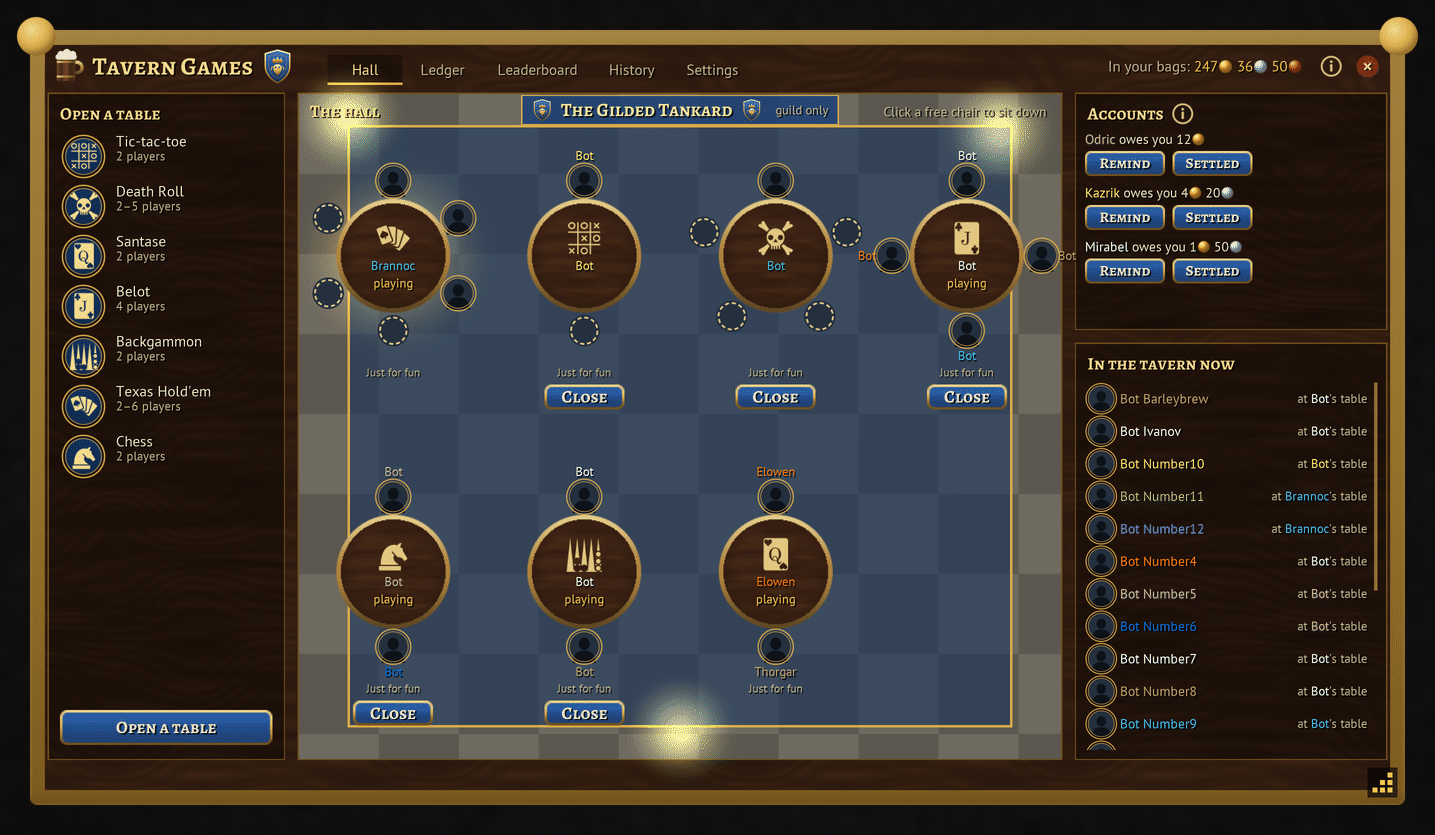
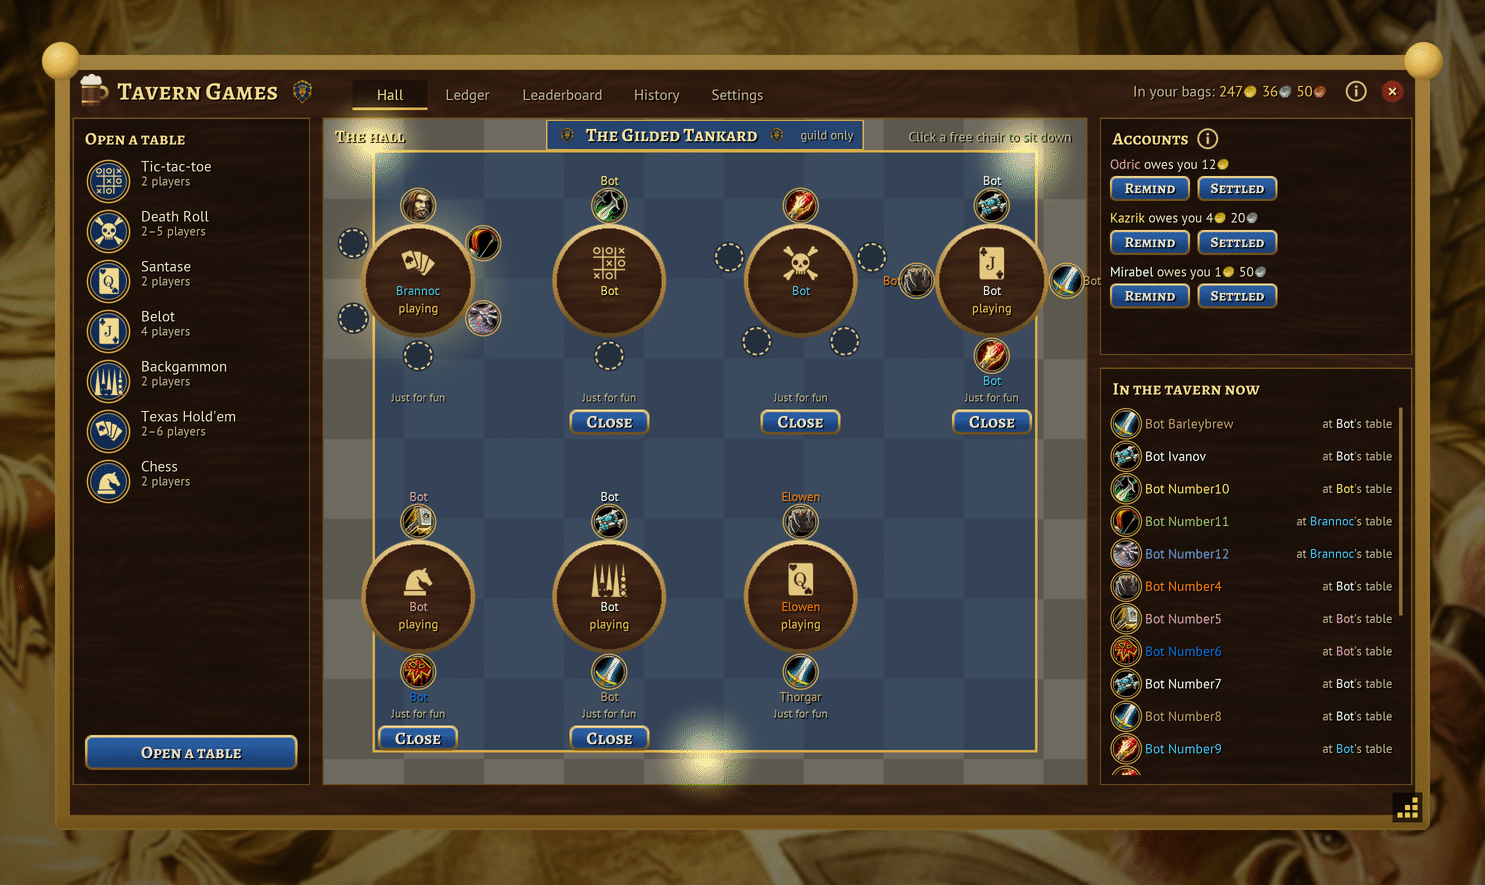
docs(shots): the client's own art in the screenshots
client_art.py reads the files the addon asks for (wow/Art.lua's candidates:
crests, race leaders, race and class icons, coins) and a loading screen per
faction out of the local WoW install's CASC storage (casc.py), into the
git-ignored tools/shots/build/client. The scenes run with a client that has
those files, so the addon picks the same art as in the game; the world behind
the window is the faction's loading screen. Without it, the stand-ins show.

diff --git a/tools/shots/casc.py b/tools/shots/casc.py
@@ -1,0 +1,171 @@
+"""A small read-only reader of a local WoW install's CASC storage, for client_art.py.
+
+It follows .build.info to the build config, then the encoding and root manifests,
+the local .idx indexes and the data.NNN archives, and unpacks BLTE (plain and zlib
+chunks; encrypted ones are refused). A file is found by its path through the
+Jenkins name hash the root manifest keeps, or by its FileDataID.
+"""
+import os, struct, zlib, glob
+
+def hashlittle2(data, pc=0, pb=0):
+    mask = 0xFFFFFFFF
+    length = len(data)
+    a = b = c = (0xdeadbeef + length + pc) & mask
+    c = (c + pb) & mask
+    def rot(x, k): return ((x << k) | (x >> (32 - k))) & mask
+    i = 0
+    while length > 12:
+        a = (a + struct.unpack_from('<I', data, i)[0]) & mask
+        b = (b + struct.unpack_from('<I', data, i + 4)[0]) & mask
+        c = (c + struct.unpack_from('<I', data, i + 8)[0]) & mask
+        a = (a - c) & mask; a ^= rot(c, 4);  c = (c + b) & mask
+        b = (b - a) & mask; b ^= rot(a, 6);  a = (a + c) & mask
+        c = (c - b) & mask; c ^= rot(b, 8);  b = (b + a) & mask
+        a = (a - c) & mask; a ^= rot(c, 16); c = (c + b) & mask
+        b = (b - a) & mask; b ^= rot(a, 19); a = (a + c) & mask
+        c = (c - b) & mask; c ^= rot(b, 4);  b = (b + a) & mask
+        length -= 12; i += 12
+    if length == 0:
+        return c, b
+    tail = data[i:] + b'\0' * (12 - length)
+    a = (a + struct.unpack_from('<I', tail, 0)[0]) & mask
+    b = (b + struct.unpack_from('<I', tail, 4)[0]) & mask
+    c = (c + struct.unpack_from('<I', tail, 8)[0]) & mask
+    c ^= b; c = (c - rot(b, 14)) & mask
+    a ^= c; a = (a - rot(c, 11)) & mask
+    b ^= a; b = (b - rot(a, 25)) & mask
+    c ^= b; c = (c - rot(b, 16)) & mask
+    a ^= c; a = (a - rot(c, 4)) & mask
+    b ^= a; b = (b - rot(a, 14)) & mask
+    c ^= b; c = (c - rot(b, 24)) & mask
+    return c, b
+
+def name_hash(path):
+    c, b = hashlittle2(path.upper().replace('/', '\\').encode('ascii'))
+    return (c << 32) | b
+
+def blte(buf):
+    assert buf[:4] == b'BLTE', buf[:4]
+    hsize = struct.unpack_from('>I', buf, 4)[0]
+    out = []
+    if hsize == 0:
+        chunks = [(len(buf) - 8, None)]
+        pos = 8
+    else:
+        count = struct.unpack_from('>I', buf, 8)[0] & 0xFFFFFF
+        chunks = []
+        for k in range(count):
+            csize, dsize = struct.unpack_from('>II', buf, 12 + k * 24)
+            chunks.append((csize, dsize))
+        pos = hsize
+    for csize, _ in chunks:
+        chunk = buf[pos:pos + csize]; pos += csize
+        mode = chunk[:1]
+        if mode == b'N': out.append(chunk[1:])
+        elif mode == b'Z': out.append(zlib.decompress(chunk[1:]))
+        elif mode == b'E': raise ValueError('encrypted chunk')
+        else: raise ValueError('BLTE mode %r' % mode)
+    return b''.join(out)
+
+class Casc:
+    def __init__(self, wow_dir, product):
+        self.data = os.path.join(wow_dir, 'Data')
+        rows = open(os.path.join(wow_dir, '.build.info'), encoding='utf-8').read().splitlines()
+        head = [h.split('!')[0] for h in rows[0].split('|')]
+        info = None
+        for line in rows[1:]:
+            r = dict(zip(head, line.split('|')))
+            if r.get('Product') == product: info = r
+        key = info['Build Key']
+        cfg = {}
+        for line in open(os.path.join(self.data, 'config', key[:2], key[2:4], key), encoding='utf-8'):
+            if ' = ' in line:
+                k, v = line.strip().split(' = ', 1); cfg[k] = v.split()
+        self.cfg = cfg
+        self._load_index()
+        enc_ekey = bytes.fromhex(cfg['encoding'][1])
+        self._load_encoding(self.read_ekey(enc_ekey))
+        self._load_root(self.read_ckey(bytes.fromhex(cfg['root'][0])))
+
+    def _load_index(self):
+        best = {}
+        for p in glob.glob(os.path.join(self.data, 'data', '*.idx')):
+            n = os.path.basename(p)
+            bucket, ver = int(n[:2], 16), int(n[2:10], 16)
+            if bucket not in best or ver > best[bucket][0]: best[bucket] = (ver, p)
+        self.index = {}
+        for _, p in best.values():
+            d = open(p, 'rb').read()
+            hhs = struct.unpack_from('<I', d, 0)[0]
+            pos = (8 + hhs + 0x0F) & ~0x0F
+            esize = struct.unpack_from('<I', d, pos)[0]; pos += 8
+            for off in range(pos, pos + esize, 18):
+                ek = d[off:off + 9]
+                hi = d[off + 9]; lo = struct.unpack_from('>I', d, off + 10)[0]
+                v = (hi << 32) | lo
+                archive, offset = v >> 30, v & 0x3FFFFFFF
+                size = struct.unpack_from('<I', d, off + 14)[0]
+                self.index.setdefault(ek, (archive, offset, size))
+
+    def read_ekey(self, ekey):
+        archive, offset, size = self.index[ekey[:9]]
+        with open(os.path.join(self.data, 'data', 'data.%03d' % archive), 'rb') as f:
+            f.seek(offset + 30)
+            return blte(f.read(size - 30))
+
+    def _load_encoding(self, d):
+        assert d[:2] == b'EN'
+        ck, ek = d[3], d[4]
+        cpage = struct.unpack_from('>H', d, 5)[0] * 1024
+        ccount = struct.unpack_from('>I', d, 9)[0]
+        espec = struct.unpack_from('>I', d, 18)[0]
+        pos = 22 + espec + ccount * 32
+        self.enc = {}
+        for p in range(ccount):
+            page = d[pos + p * cpage: pos + (p + 1) * cpage]
+            i = 0
+            while i + 6 + ck <= len(page):
+                n = page[i]
+                if n == 0: break
+                ckey = page[i + 6:i + 6 + ck]
+                self.enc[ckey] = page[i + 6 + ck:i + 6 + ck + ek]
+                i += 6 + ck + n * ek
+
+    def read_ckey(self, ckey):
+        return self.read_ekey(self.enc[ckey])
+
+    def _load_root(self, d):
+        self.by_hash, self.by_fdid = {}, {}
+        assert d[:4] == b'TSFM', d[:4]
+        hsize, version = struct.unpack_from('<II', d, 4)
+        if version == 2 or hsize == 0x18:
+            pos = hsize
+        else:
+            pos = 12  # v1: magic, total, named
+            version = 1
+        while pos < len(d):
+            if version == 2:
+                n, locale, f1, f2, f3 = struct.unpack_from('<IIIIB', d, pos); pos += 17
+                flags = f1 | f2 | (f3 << 17)
+            else:
+                n, flags, locale = struct.unpack_from('<III', d, pos); pos += 12
+            fdid, ids = -1, []
+            for k in range(n):
+                fdid += struct.unpack_from('<i', d, pos + k * 4)[0] + 1; ids.append(fdid)
+            pos += n * 4
+            ckeys = [d[pos + k * 16:pos + k * 16 + 16] for k in range(n)]; pos += n * 16
+            hashes = None
+            if not (flags & 0x10000000):
+                hashes = struct.unpack_from('<%dQ' % n, d, pos); pos += n * 8
+            enus = (locale & 0x2) or locale == 0xFFFFFFFF or locale == 0
+            for k in range(n):
+                if ids[k] not in self.by_fdid or enus: self.by_fdid[ids[k]] = ckeys[k]
+                if hashes and (hashes[k] not in self.by_hash or enus): self.by_hash[hashes[k]] = ids[k]
+
+    def fdid(self, path):
+        return self.by_hash.get(name_hash(path))
+
+    def read_path(self, path):
+        f = self.fdid(path)
+        if f is None: return None
+        return self.read_ckey(self.by_fdid[f])

diff --git a/tools/shots/render.py b/tools/shots/render.py
@@ -16,7 +16,7 @@ import re
 import sys
 
 import numpy as np
-from PIL import Image, ImageDraw, ImageFont
+from PIL import Image, ImageDraw, ImageFilter, ImageFont
 
 ROOT = os.path.normpath(os.path.join(os.path.dirname(os.path.abspath(__file__)), "..", ".."))
 BUILD = os.path.join(ROOT, "tools", "shots", "build")
@@ -53,12 +53,30 @@ def cap_height(f):
     return _cap[f]
 
 
+CLIENT = os.path.join(ROOT, "tools", "shots", "build", "client")
+# The world behind the windows, when client_art.py took it out: a loading screen of the faction's continent.
+WORLD = {
+    "Alliance": "interface/glues/loadingscreens/loadscreeneasternkingdom.png",
+    "Horde": "interface/glues/loadingscreens/loadscreenkalimdor.png",
+}
+
+
+def client_file(path):
+    """A client texture path (no extension) -> its PNG under build/client, or None."""
+    rel = path.lower().replace("\\", "/")
+    rel = re.sub(r"\.blp$", "", rel) + ".png"
+    full = os.path.join(CLIENT, *rel.split("/"))
+    return os.path.relpath(full, ROOT) if os.path.exists(full) else None
+
+
 class Canvas:
-    def __init__(self, crop):
+    def __init__(self, crop, data=None):
         self.l, self.b, self.r, self.t = crop
         self.w = int(round((self.r - self.l) * K))
         self.h = int(round((self.t - self.b) * K))
-        self.px = backdrop(self.w, self.h)
+        self.px = world(self, data or {})
+        if self.px is None:
+            self.px = backdrop(self.w, self.h)
 
     def box(self, rect):
         """UI rect [l, b, r, t] -> canvas px (x0, y0, x1, y1), rounded so adjacent pieces abut."""
@@ -102,6 +120,36 @@ def backdrop(w, h):
     vign = 1.0 - 0.35 * np.clip(d - 0.3, 0, 1)
     lum = (1 + 0.07 * blot + 0.012 * grain) * vign
     return (base[None, None, :] * lum[..., None]).astype(np.float32)
+
+
+def world(cv, data):
+    """The faction's loading screen laid over the whole screen as the game shows it (4:3,
+    covering the 16:9 screen), the part behind the crop, softened and dimmed like a world
+    behind an open window -> float RGB, or None without client art."""
+    rel = WORLD.get(data.get("faction") or "Alliance")
+    path = rel and os.path.join(CLIENT, *rel.split("/"))
+    if not path or not os.path.exists(path):
+        return None
+    sw, sh = data.get("screen") or (1920, 1080)
+    img = Image.open(path).convert("RGB")
+    iw, ih = img.size
+    # The texture is square; the client stretches it to a 4:3 frame. Cover the screen with that frame.
+    fw = max(sw, sh * 4 / 3)
+    fh = fw * 3 / 4
+    ox, oy = (fw - sw) / 2, (fh - sh) / 2
+
+    def px(x, y_up):
+        return (x + ox) / fw * iw, (sh - y_up + oy) / fh * ih
+
+    x0, y0 = px(cv.l, cv.t)
+    x1, y1 = px(cv.r, cv.b)
+    patch = img.transform((cv.w, cv.h), Image.EXTENT, (x0, y0, x1, y1), resample=Image.BICUBIC)
+    patch = patch.filter(ImageFilter.GaussianBlur(radius=max(1.0, cv.w / 900)))
+    arr = np.asarray(patch, dtype=np.float32) / 255.0
+    yy, xx = np.mgrid[0:cv.h, 0:cv.w].astype(np.float32)
+    d = np.sqrt(((xx - cv.w / 2) / (cv.w / 2)) ** 2 + ((yy - cv.h / 2) / (cv.h / 2)) ** 2)
+    dim = 0.62 * (1.0 - 0.35 * np.clip(d - 0.4, 0, 1))
+    return (arr * dim[..., None]).astype(np.float32)
 
 
 def sample(path, tc, wrap, w, h):
@@ -219,6 +267,8 @@ def inline_spec(spec, size):
         file = path[len(prefix):].replace("\\", "/")
         if not re.search(r"\.\w+$", file):
             file += ".tga"
+    else:
+        file = client_file(path)
     return file, w * K, h * K, dx * K, dy * K, tc
 
 
@@ -340,7 +390,7 @@ def render(name):
     crop = data["crop"]
     global K
     K = data.get("scale", SCALE) * SS
-    cv = Canvas(crop)
+    cv = Canvas(crop, data)
     for it in data["items"]:
         if it["k"] == "tex":
             draw_texture(cv, it)

diff --git a/tools/shots/client_art.py b/tools/shots/client_art.py
@@ -1,0 +1,77 @@
+"""Headless screenshots, step 0 (optional): the client's own art, from your WoW install.
+
+In the game the addon shows some of the client's art: the faction crests, the race
+leaders on the face cards, race and class icons on the seats, the coin icons. The
+fake client has none of it, so without this step the shots show the addon's own
+stand-ins. This reads exactly the files the addon asks for (wow/Art.lua's candidates,
+listed by `luajit tools/shots/scenes.lua --art`), plus a loading screen per faction
+for the world behind the windows, out of the local CASC storage, and writes them as
+PNG under tools/shots/build/client/ (git-ignored: Blizzard's art is never committed;
+only the finished screenshots are). Run from the repo root:
+    python tools/shots/client_art.py [--wow "C:/Program Files (x86)/World of Warcraft"] [--product wowf]
+Env: WOW_DIR, WOW_PRODUCT, LUAJIT (the luajit binary, default "luajit").
+"""
+import argparse
+import io
+import os
+import subprocess
+import sys
+
+from PIL import Image
+
+sys.path.insert(0, os.path.dirname(os.path.abspath(__file__)))
+from casc import Casc  # noqa: E402
+
+ROOT = os.path.normpath(os.path.join(os.path.dirname(os.path.abspath(__file__)), "..", ".."))
+OUT = os.path.join(ROOT, "tools", "shots", "build", "client")
+
+# The world behind the windows (render.py): one loading screen per faction.
+WORLD = [
+    "Interface\\Glues\\LoadingScreens\\LoadScreenEasternKingdom",
+    "Interface\\Glues\\LoadingScreens\\LoadScreenKalimdor",
+]
+
+
+def wanted():
+    luajit = os.environ.get("LUAJIT", "luajit")
+    out = subprocess.run([luajit, "tools/shots/scenes.lua", "--art"], cwd=ROOT, check=True,
+                         capture_output=True, text=True).stdout
+    paths = [line.strip() for line in out.splitlines() if line.strip()]
+    return paths + WORLD
+
+
+def target(path):
+    return os.path.join(OUT, *path.lower().replace("\\", "/").split("/")) + ".png"
+
+
+def main():
+    ap = argparse.ArgumentParser()
+    ap.add_argument("--wow", default=os.environ.get("WOW_DIR", r"C:\Program Files (x86)\World of Warcraft"))
+    ap.add_argument("--product", default=os.environ.get("WOW_PRODUCT", "wowf"))
+    args = ap.parse_args()
+    paths = wanted()
+    store = Casc(args.wow, args.product)
+    have, missing = [], []
+    for path in paths:
+        try:
+            data = store.read_path(path + ".blp")
+        except (KeyError, ValueError):
+            data = None
+        if not data:
+            missing.append(path)
+            continue
+        img = Image.open(io.BytesIO(data)).convert("RGBA")
+        dst = target(path)
+        os.makedirs(os.path.dirname(dst), exist_ok=True)
+        img.save(dst)
+        have.append(path)
+    os.makedirs(OUT, exist_ok=True)
+    with open(os.path.join(OUT, "have.txt"), "w", encoding="utf-8", newline="\n") as fh:
+        fh.write("\n".join(have) + "\n")
+    print("client art: %d files from %s (%s), %d not in this client" % (len(have), args.wow, args.product, len(missing)))
+    for m in missing:
+        print("  not found:", m)
+
+
+if __name__ == "__main__":
+    main()

diff --git a/tools/shots/README.md b/tools/shots/README.md
@@ -3,6 +3,7 @@
 The pictures in `docs/screenshots/` are drawn from the addon's own UI code, without the game.
 
 ```
+python tools/shots/client_art.py      # once, needs a local WoW install (see below)
 luajit tools/shots/scenes.lua && python tools/shots/render.py
 ```
 
@@ -27,7 +28,27 @@ Run it from the repo root. You can also name scenes, for example `luajit tools/s
    skipped, alpha is multiplied down the parent chain, and scroll frames clip their children.
 3. `render.py` draws the list with Pillow at 2x supersampling. Textures are cropped by tex-coords (tiled when they
    use REPEAT), tinted by vertex colour, and use ADD blend and masks. Text uses the real TTF and supports `|c..|r`
-   colours, `|T..|t` inline textures (the coins), shadows and outlines. The page is drawn over a dark neutral
-   backdrop, cropped to the scene's window(s) and saved as a PNG. An image over 600 KB gets a fitted 256-colour palette.
+   colours, `|T..|t` inline textures (the coins), shadows and outlines. The page is drawn over the world (below) or,
+   without client art, a dark neutral backdrop, cropped to the scene's window(s) and saved as a PNG. An image over
+   600 KB gets a fitted 256-colour palette.
+
+## The client's art
+
+In the game the addon shows some of the client's own art: the faction crests, the race leaders on the face cards,
+race and class icons on the seats, the coin icons. `client_art.py` reads exactly the files the addon asks for
+(`wow/Art.lua`'s file candidates, listed by `luajit tools/shots/scenes.lua --art`) out of your WoW install's CASC
+storage (`casc.py`, no third-party tools), plus one loading screen per faction (Eastern Kingdoms for the Alliance,
+Kalimdor for the Horde), and writes them as PNG to `tools/shots/build/client/`. That folder is git-ignored: Blizzard's
+art is never committed, only the finished screenshots. The scenes then run with a client that has those files
+(`GetFileIDFromPath` finds them), so the addon picks the same art as in the game. Atlases are left out (their
+coordinates live in the client's database); every asset also has a file candidate, which the addon takes instead.
+The loading screen is laid over the whole screen as the client shows it, softened and dimmed, as the world behind the
+open window. Without this step the shots show the addon's own stand-ins over the neutral backdrop.
+
+Options: `--wow DIR` (default `C:\Program Files (x86)\World of Warcraft`, or `WOW_DIR`), `--product` (default `wowf`,
+WoW Forever, or `WOW_PRODUCT`), `LUAJIT` for the luajit binary.
+
+Still different from the game: the player's own seat shows the race icon, not the client's 3-D portrait of the
+character, and the world behind the window is a loading screen, not the 3-D world.
 
 `metrics.lua` is generated and committed. Remake it with `python tools/shots/metrics.py` when a font changes.
